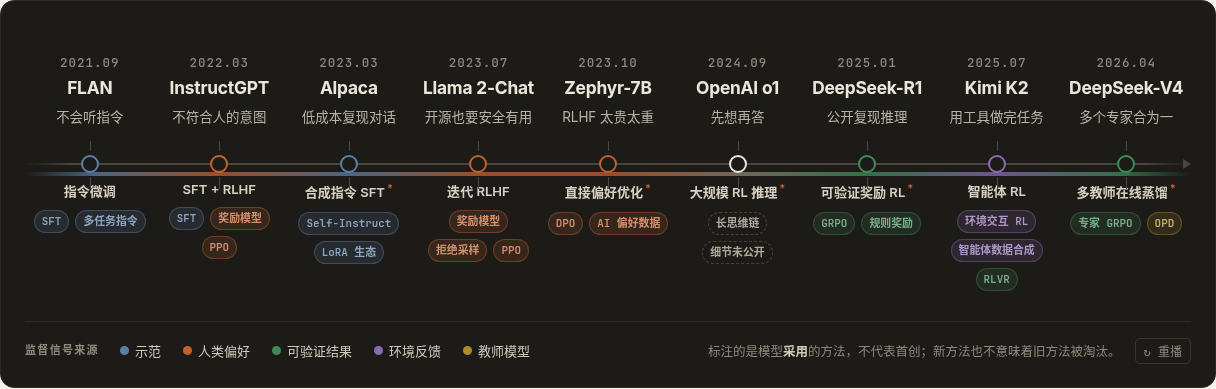
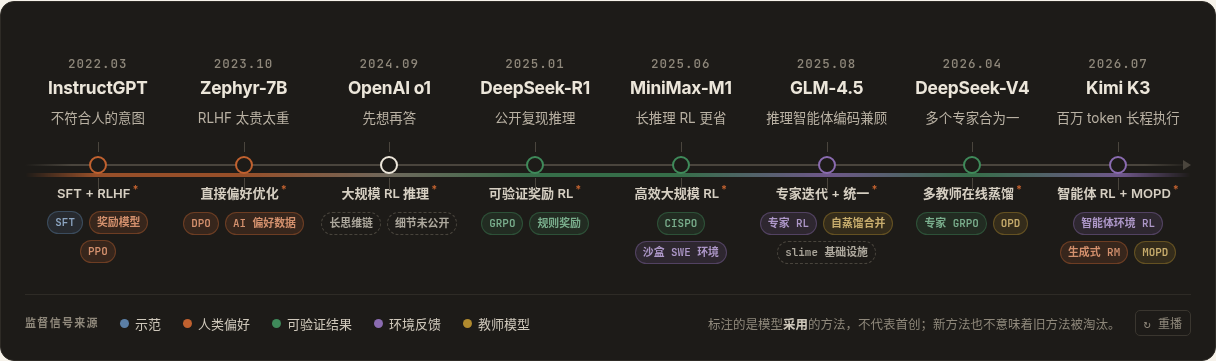
Timeline v3: drop early nodes, add MiniMax-M1, GLM-4.5, Kimi K3

diff --git a/src/data/timeline.ts b/src/data/timeline.ts
@@ -12,15 +12,9 @@ export type TLNode = { id: string; model: string; date: string; problem: string;
 export const PLACEHOLDER = false;
 // 来源与引文见 docs/timeline-sources.md。标注的是该模型「采用」的方法，不是发明。
 export const NODES: TLNode[] = [
-  { id: 'flan', model: 'FLAN', date: '2021.09', problem: '不会听指令', strategy: '指令微调',
-    techs: [{ name: 'SFT', signal: 'demo' }, { name: '多任务指令', signal: 'demo' }] },
   { id: 'instructgpt', model: 'InstructGPT', date: '2022.03', problem: '不符合人的意图', strategy: 'SFT + RLHF',
-    techs: [{ name: 'SFT', signal: 'demo' }, { name: '奖励模型', signal: 'pref' }, { name: 'PPO', signal: 'pref' }] },
-  { id: 'alpaca', model: 'Alpaca', date: '2023.03', problem: '低成本复现对话', strategy: '合成指令 SFT',
-    techs: [{ name: 'Self-Instruct', signal: 'demo' }, { name: 'LoRA 生态', signal: 'demo' }],
-    note: 'Alpaca 官方为全参微调；LoRA 来自社区复现 alpaca-lora' },
-  { id: 'llama2', model: 'Llama 2-Chat', date: '2023.07', problem: '开源也要安全有用', strategy: '迭代 RLHF',
-    techs: [{ name: '奖励模型', signal: 'pref' }, { name: '拒绝采样', signal: 'pref' }, { name: 'PPO', signal: 'pref' }] },
+    techs: [{ name: 'SFT', signal: 'demo' }, { name: '奖励模型', signal: 'pref' }, { name: 'PPO', signal: 'pref' }],
+    note: 'RLHF 本身更早（Christiano 2017 等）；这里是它用于指令模型的代表' },
   { id: 'zephyr', model: 'Zephyr-7B', date: '2023.10', problem: 'RLHF 太贵太重', strategy: '直接偏好优化',
     techs: [{ name: 'DPO', signal: 'pref' }, { name: 'AI 偏好数据', signal: 'pref' }],
     note: '偏好标签由 GPT-4 打分（AI 反馈），非人工' },
@@ -29,9 +23,16 @@ export const NODES: TLNode[] = [
   { id: 'r1', model: 'DeepSeek-R1', date: '2025.01', problem: '公开复现推理', strategy: '可验证奖励 RL',
     techs: [{ name: 'GRPO', signal: 'verify' }, { name: '规则奖励', signal: 'verify' }],
     note: 'GRPO 提出于 DeepSeekMath (2024.02)；RLVR 一词由 Tülu 3 (2024.11) 命名' },
-  { id: 'k2', model: 'Kimi K2', date: '2025.07', problem: '用工具做完任务', strategy: '智能体 RL',
-    techs: [{ name: '环境交互 RL', signal: 'env' }, { name: '智能体数据合成', signal: 'env' }, { name: 'RLVR', signal: 'verify' }] },
+  { id: 'm1', model: 'MiniMax-M1', date: '2025.06', problem: '长推理 RL 更省', strategy: '高效大规模 RL',
+    techs: [{ name: 'CISPO', signal: 'verify' }, { name: '沙盒 SWE 环境', signal: 'env' }],
+    note: 'CISPO 由 M1 报告提出：裁剪重要性采样权重而非 token 更新' },
+  { id: 'glm45', model: 'GLM-4.5', date: '2025.08', problem: '推理智能体编码兼顾', strategy: '专家迭代 + 统一',
+    techs: [{ name: '专家 RL', signal: 'env' }, { name: '自蒸馏合并', signal: 'teacher' }, { name: 'slime 基础设施' }],
+    note: '先训推理/智能体/通用三类专家，再用自蒸馏（SFT 形式）合为一体；RL 基础设施 slime。灰色 = 基础设施' },
   { id: 'v4', model: 'DeepSeek-V4', date: '2026.04', problem: '多个专家合为一', strategy: '多教师在线蒸馏',
     techs: [{ name: '专家 GRPO', signal: 'verify' }, { name: 'OPD', signal: 'teacher' }],
     note: 'OPD 取代 V3.2 的混合 RL 阶段；student 优化对多教师的 reverse KL' },
+  { id: 'k3', model: 'Kimi K3', date: '2026.07', problem: '百万 token 长程执行', strategy: '智能体 RL + MOPD',
+    techs: [{ name: '智能体环境 RL', signal: 'env' }, { name: '生成式 RM', signal: 'pref' }, { name: 'MOPD', signal: 'teacher' }],
+    note: '可验证环境 + Agentic 生成式奖励模型（按 rubric 打分）训领域专家，再用多教师 OPD 合并' },
 ];

diff --git a/docs/timeline-sources.md b/docs/timeline-sources.md
@@ -1,29 +1,31 @@
-# 开场时间轴 · 来源与取舍
+# 开场时间轴 · 来源与取舍（v3，2026-10-15）
 
-原则：节点是**代表模型**，标签是该模型**采用**的技术（不代表首创，也不代表淘汰旧方法）。日期取论文 arXiv v1 提交日或官方发布日期。以下链接已于 2026-10-15 确认能打开（OpenAI 页面用 curl 会被 403，用 WebFetch 能正常读取）。
+原则：节点是**代表模型**，标签是该模型**采用**的技术（不代表首创，也不代表淘汰旧方法）。日期取 arXiv v1 提交日或官方发布日。以下链接均于 2026-10-15 确认能打开；OpenAI 页面用 curl 会被 403，用 WebFetch 能正常读取。灰色虚线标签表示未公开的信息或基础设施，不归入任何信号来源。
 
-| # | 节点 | 日期 | 一手来源 | 依据（摘录/要点） |
+| # | 节点 | 日期 | 一手来源 | 依据 |
 |---|---|---|---|---|
-| 1 | FLAN | 2021.09 | [arXiv 2109.01652](https://arxiv.org/abs/2109.01652)《Finetuned Language Models Are Zero-Shot Learners》v1 2021-09-03 | 在 60+ 个用自然语言指令描述的数据集上做 instruction tuning，提升零样本能力 → SFT / 多任务指令 |
-| 2 | InstructGPT | 2022.03 | [arXiv 2203.02155](https://arxiv.org/abs/2203.02155) v1 2022-03-04 | 三步：示范数据 SFT → 比较数据训练 RM → 用 PPO 优化 RM |
-| 3 | Alpaca | 2023.03 | [Stanford CRFM 博客 2023-03-13](https://crfm.stanford.edu/2023/03/13/alpaca.html)；LoRA：[arXiv 2106.09685](https://arxiv.org/abs/2106.09685)（2021-06）；社区复现 [tloen/alpaca-lora](https://github.com/tloen/alpaca-lora) | "fine-tuned from the LLaMA 7B model on 52K instruction-following demonstrations"（数据用 Self-Instruct 方式由 text-davinci-003 生成）。**官方 Alpaca 是全参微调**，LoRA 来自社区 alpaca-lora，所以图上写的是「LoRA 生态」并加了注释 |
-| 4 | Llama 2-Chat | 2023.07 | [arXiv 2307.09288](https://arxiv.org/abs/2307.09288) v1 2023-07-18 | SFT 之后迭代 RLHF：用 helpfulness / safety 两个 RM，先拒绝采样微调，再做 PPO |
-| 5 | Zephyr-7B | 2023.10 | [arXiv 2310.16944](https://arxiv.org/abs/2310.16944) v1 2023-10-25 | "distilled direct preference optimization (dDPO)…preference data from AI Feedback…requires no human annotation" → DPO；偏好来自 AI 打分（UltraFeedback 用 GPT-4 打分），所以归在「偏好」类，并注明不是人工标注 |
-| 6 | OpenAI o1 | 2024.09 | [OpenAI《Learning to reason with LLMs》2024-09-12](https://openai.com/index/learning-to-reason-with-llms/) | "trained with reinforcement learning…large-scale reinforcement learning algorithm teaches the model how to think productively using its chain of thought"。**奖励形式与算法未公开**，所以标签是灰色虚线、不归入任何信号类 |
-| 7 | DeepSeek-R1 | 2025.01 | [arXiv 2501.12948](https://arxiv.org/abs/2501.12948) v1 2025-01-22 | R1-Zero / R1 用 GRPO；"we employ rule-based rewards…mathematical, coding, and logical reasoning domains" |
-| 8 | Kimi K2 | 2025.07 | [arXiv 2507.20534](https://arxiv.org/abs/2507.20534) v1 2025-07-28 | "large-scale agentic data synthesis pipeline and a joint RL stage…interactions with real and synthetic environments"；RL 框架 "combines verifiable rewards (RLVR) with a self-critique rubric reward" |
-| 9 | DeepSeek-V4 | 2026.04 | [arXiv 2606.19348](https://arxiv.org/abs/2606.19348) v1 2026-04-26 | §5.1："the mixed RL stage was entirely replaced by On-Policy Distillation"；先按领域训练专家（SFT + GRPO），再用 multi-teacher OPD 合并，"student learning to optimize the reverse KL loss with teacher models"；引用 Gu et al. 2024 和 [Thinking Machines《On-Policy Distillation》](https://thinkingmachines.ai/blog/on-policy-distillation/)（2025-10） |
+| 1 | InstructGPT | 2022.03 | [arXiv 2203.02155](https://arxiv.org/abs/2203.02155)，v1 2022-03-04 | 三步：示范 SFT → 比较数据训练 RM → 用 PPO 优化 RM |
+| 2 | Zephyr-7B | 2023.10 | [arXiv 2310.16944](https://arxiv.org/abs/2310.16944)，v1 2023-10-25 | dDPO，偏好数据来自 AI 反馈（"requires no human annotation"） |
+| 3 | OpenAI o1 | 2024.09 | [OpenAI 博客 2024-09-12](https://openai.com/index/learning-to-reason-with-llms/) | "large-scale reinforcement learning algorithm teaches the model how to think…chain of thought"；奖励和算法未公开 |
+| 4 | DeepSeek-R1 | 2025.01 | [arXiv 2501.12948](https://arxiv.org/abs/2501.12948)，v1 2025-01-22 | GRPO + "rule-based rewards…mathematical, coding, and logical reasoning" |
+| 5 | MiniMax-M1 | 2025.06 | [arXiv 2506.13585](https://arxiv.org/abs/2506.13585)，v1 2025-06-16 | "trained using large-scale RL on diverse problems ranging from traditional mathematical reasoning to sandbox-based, real-world software engineering environments…we propose CISPO…clips importance sampling weights rather than token updates" |
+| 6 | GLM-4.5 | 2025.08 | [arXiv 2508.06471](https://arxiv.org/abs/2508.06471)，v1 2025-08-08；[THUDM/slime](https://github.com/THUDM/slime) | "Expert Model Iteration"：stage 1 训推理、智能体、通用对话三类专家（SFT 冷启动 + 专家 RL），stage 2 "Unified Training…self-distillation techniques to integrate multiple experts"（以 SFT 形式蒸馏）；报告里有 Agentic RL 小节；"Our RL infrastructure is built upon Slime" |
+| 7 | DeepSeek-V4 | 2026.04 | [arXiv 2606.19348](https://arxiv.org/abs/2606.19348)，v1 显示 2026-04-26 | §5.1 "the mixed RL stage was entirely replaced by On-Policy Distillation"；先训 SFT+GRPO 领域专家，再做 multi-teacher OPD（reverse KL） |
+| 8 | Kimi K3 | 2026.07 | [arXiv 2607.24653](https://arxiv.org/abs/2607.24653)，v1 2026-07-27；[MoonshotAI/Kimi-K3](https://github.com/moonshotai/Kimi-K3) | §4.1："SFT → developing specialized domain experts…via RL → consolidating…using Multi-Teacher On-Policy Distillation (MOPD)"；非可验证任务用 "Agentic Generative Reward Model"（生成 rubric 再打分）；有可验证的智能体环境，以及 "million-token agentic RL with persistent rollout and sandbox states" |
 
-## 方法起点（放在注释里，不单独做节点）
-- **GRPO 提出**：DeepSeekMath，[arXiv 2402.03300](https://arxiv.org/abs/2402.03300)，2024-02-05。R1 是「采用」它的代表模型。
-- **RLVR 命名**：Tülu 3，[arXiv 2411.15124](https://arxiv.org/abs/2411.15124)，2024-11-22，摘要原文："a novel method we call Reinforcement Learning with Verifiable Rewards (RLVR)"。
-- **OPD 早期工业应用**：Qwen3，[arXiv 2505.09388](https://arxiv.org/abs/2505.09388)，2025-05-14，§4.5 Strong-to-Weak Distillation，小模型做 on-policy distillation（"student…aligning its logits with those of a teacher…minimize the KL divergence"）。
+## 删除的节点及原因
+- 按用户意见删掉 FLAN、Alpaca、Llama 2-Chat（早期 / Llama 系）。
+- **保留 InstructGPT**：它是唯一能完整展示「SFT → 偏好 RM → PPO」经典 RLHF 配方的锚点，后面的 DPO、GRPO、OPD 都是相对它的简化或替代。去掉之后，「人类偏好」这条信号线就没有起点了。图上的注释写明了 RLHF 更早就已提出（Christiano et al. 2017）。
+- **Kimi K2（2025.07，arXiv 2507.20534）由 K3 替代**：K3 确有公开技术报告（2026-07-27），而且同时体现了智能体 RL 和 MOPD。智能体 RL 这一阶段由 MiniMax-M1 的沙盒 SWE 环境和 GLM-4.5 的 Agentic RL 承接。如果需要一个 2025 年中纯智能体 RL 的锚点，可以把 K2 加回来，第 9 个节点仍然放得下。
 
-## 取舍与存疑
-- **ChatGPT（2022.11）没做节点**：它是产品化，后训练方法与 InstructGPT 同类（官方博客说用 RLHF、方法与 InstructGPT 相同，只是数据收集方式略有不同；该页 curl 返回 403，这里没有逐字复核）。放进来容易把「RLHF 出现、InstructGPT、ChatGPT 产品化」三件事混在一起。
-- **o1 的信号来源不确定**：外界普遍推测是可验证奖励，但官方没说，所以不着色。
-- **Zephyr 的信号**：用的是 AI 反馈的偏好，不是人类偏好，归入「偏好」类只是为了让图更简洁。
-- **Agentic RL 代表**：选了 Kimi K2（开源、技术报告写得明确）。DeepSeek-V3.2（[arXiv 2512.02556](https://arxiv.org/abs/2512.02556)，2025-12-02，"Large-Scale Agentic Task Synthesis Pipeline"）可以作为替换项。
-- **DeepSeek 的 OPD**：一手来源确认是 V4。目前没有找到 V3.x 或 R1 使用 OPD 的一手证据（R1 的蒸馏小模型是离线 SFT 蒸馏，不是 on-policy）。
-- **DeepSeek-V4 的 arXiv 编号是 2606.xxxxx，但 v1 提交日期显示 2026-04-26**：编号和日期对不上。图上取页面显示的提交日期，正式使用前建议再到 DeepSeek 官方渠道核对发布时间。
-- **LoRA 节点**：PEFT/LoRA 不是某个代表模型的官方配方，所以挂在 Alpaca 生态上，并注明了。
+## 方法起点（放在注释里）
+- GRPO：DeepSeekMath，[arXiv 2402.03300](https://arxiv.org/abs/2402.03300)，2024-02。
+- RLVR 命名：Tülu 3，[arXiv 2411.15124](https://arxiv.org/abs/2411.15124)，2024-11。
+- OPD：Qwen3，[arXiv 2505.09388](https://arxiv.org/abs/2505.09388)，§4.5；[Thinking Machines 博客](https://thinkingmachines.ai/blog/on-policy-distillation/)，2025-10。
+
+## 存疑与取舍
+- **MiniMax 选 M1 而不是 M2**：M2 系列报告（[arXiv 2605.26494](https://arxiv.org/abs/2605.26494)，2026-05-26）覆盖 M2 到 M2.7，用 Forge 智能体 RL 系统 + CISPO + 过程奖励 / reward-to-go。但 M2 模型的实际发布早于报告，报告里也没有给出单一日期，所以选了日期清楚、而且提出 CISPO 的 M1。
+- **GLM 选 4.5 而不是 5**：用户点名的「专家模型 + 统一蒸馏、slime」出自 GLM-4.5。GLM-4.5 的统一阶段是 SFT 形式的自蒸馏，不是 on-policy，所以标签写「自蒸馏合并」，不写 OPD。GLM-5（[arXiv 2602.15763](https://arxiv.org/abs/2602.15763)，2026-02-17）改成了 GRPO 系 RL（Reasoning → Agentic → General），最后一步是 On-Policy Cross-Stage Distillation，继续用 slime，可以替换 GLM-4.5。
+- **DeepSeek-V4 的日期**：arXiv 编号是 2606，但 v1 显示的提交日期是 2026-04-26，两者对不上，需要到 DeepSeek 官方渠道再核。
+- **Zephyr 的偏好**来自 AI 反馈；**o1** 细节未公开，所以不着色。
+- **K3 的「生成式 RM」归入「偏好」类**：它是由模型按 rubric 打分，不是人工偏好，这样归类是一种简化。
